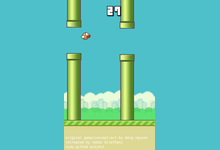
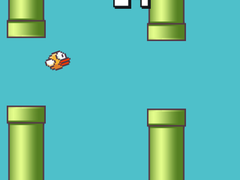
demo: new header and game tabs

diff --git a/demo/demo.css b/demo/demo.css
@@ -161,15 +161,37 @@ button:focus-visible, select:focus-visible, a:focus-visible { outline: 2px solid
 .seg button.on + button { border-left-color: var(--btn-on); }
 
 /* ---------------------------------------------------------------- lead */
-.lead { display: grid; grid-template-columns: minmax(330px, 430px) minmax(0, 1fr); gap: 44px; align-items: start; }
-@media (max-width: 1040px) { .lead { grid-template-columns: minmax(0, 1fr); gap: 26px; } }
-.lead-copy p { font-size: 16.5px; }
-.lead-copy .quiet { margin-top: 16px; }
+/* the project-page header: title, the link buttons, then the board itself */
+.lead { padding-top: 34px; }
+.pagetitle {
+  text-align: center; max-width: 30ch; margin: 0 auto 26px;
+  font-size: clamp(31px, 4.1vw, 52px); line-height: 1.1;
+}
+.hero-buttons { display: flex; justify-content: center; gap: 13px; flex-wrap: wrap; margin: 0 0 30px; }
+.hero-buttons .btn {
+  display: inline-flex; align-items: center; gap: 9px; padding: 11px 23px; border-radius: 10px;
+  font-weight: 600; font-size: 15.5px; color: #fff; border: 0; letter-spacing: -0.01em;
+  transition: transform .15s ease, box-shadow .15s ease, filter .15s ease;
+}
+.hero-buttons a.btn:hover { text-decoration: none; transform: translateY(-2px); filter: saturate(1.06); box-shadow: 0 8px 20px rgba(16, 26, 48, .22); }
+.hero-buttons .btn svg { flex: none; }
+.hero-buttons .tagx { font-style: normal; font-size: 11.5px; font-weight: 600; opacity: .78; letter-spacing: .01em; }
+.hero-buttons .soon { background: var(--muted); opacity: .62; cursor: default; }
+.btn-paper { background: #e0424f; }
+.btn-code { background: #2b3446; }
+.btn-model { background: #d68910; }
+.btn-jev { background: var(--accent); }
+.btn-list { background: #6d5ce7; }
+.lead-stage { max-width: 1080px; margin: 0 auto; }
 .stage-note { margin-top: 12px; max-width: 70ch; }
 
-.picker { display: flex; flex-wrap: wrap; gap: 6px; margin-bottom: 10px; }
-.picker button { border-radius: 999px; padding: 4px 12px; font-size: 13px; }
-.picker button.on { font-weight: 600; }
+.tabs { display: flex; flex-wrap: wrap; gap: 3px; margin-bottom: 14px; border-bottom: 1px solid var(--line); }
+.tabs button {
+  background: none; border: 0; border-bottom: 2px solid transparent; border-radius: 9px 9px 0 0;
+  padding: 9px 16px 8px; font-size: 14.5px; font-weight: 550; color: var(--muted); margin-bottom: -1px;
+}
+.tabs button:hover { background: var(--sunk); color: var(--fg); }
+.tabs button.on { color: var(--accent); border-bottom-color: var(--accent); font-weight: 660; background: none; }
 
 /* ---------------------------------------------------------------- tiles */
 .tile {
@@ -247,7 +269,7 @@ button:focus-visible, select:focus-visible, a:focus-visible { outline: 2px solid
 .tile.hero { padding: 14px; gap: 10px 16px; }
 @media (min-width: 720px) {
   .tile.hero {
-    display: grid; grid-template-columns: minmax(0, 1fr) 244px;
+    display: grid; grid-template-columns: minmax(0, 1fr) 272px;
     grid-template-areas: "board head" "board bars" "board conf" "board trace" "board foot";
     /* the trace takes whatever room the readout has left, so the column has no hole in it */
     grid-template-rows: auto auto auto 1fr auto;
@@ -260,7 +282,7 @@ button:focus-visible, select:focus-visible, a:focus-visible { outline: 2px solid
   .tile.hero .foot { grid-area: foot; align-content: start; margin-top: 0; }
 }
 /* --ar is the game's own width / height, set in fit(); a free board is exactly that shape, never letterboxed */
-.tile.hero { --cap-h: clamp(290px, 45vh, 440px); }
+.tile.hero { --cap-h: clamp(320px, 60vh, 600px); }
 .tile.hero .board, .duel .board { width: min(100%, calc(var(--cap-h) * var(--ar, 1))); margin-inline: auto; }
 .tile.hero .view, .duel .view { width: 100%; height: auto; aspect-ratio: var(--ar, 1); }
 .tile.hero .bars { font-size: 13.5px; row-gap: 6px; }
@@ -412,27 +434,6 @@ footer {
   .bars .row .bar i { transition: none; }
 }
 
-/* ---------------------------------------------------------------- lead: chips and the link block */
-.lead-copy .lead-line { font-size: 17.5px; line-height: 1.62; color: var(--fg-2); max-width: 46ch; }
-.chips { display: flex; flex-wrap: wrap; gap: 8px; list-style: none; padding: 0; margin: 20px 0 20px; }
-.chips li {
-  display: inline-flex; align-items: baseline; gap: 6px; padding: 6px 12px; border-radius: 999px;
-  background: var(--card); border: 1px solid var(--line); font-size: 13.5px; color: var(--muted);
-  box-shadow: var(--shadow);
-}
-.chips li b { font-size: 15px; font-weight: 680; color: var(--fg); letter-spacing: -0.01em; font-variant-numeric: tabular-nums; }
-.chips li:first-child b, .chips li:nth-child(3) b { color: var(--accent); }
-
-.links { display: flex; flex-wrap: wrap; gap: 7px; margin: 0 0 6px; }
-.links a, .links .soon {
-  display: inline-flex; align-items: baseline; gap: 7px; padding: 7px 12px; border-radius: 999px;
-  border: 1px solid var(--line); background: var(--card); color: var(--fg); font-size: 14px; font-weight: 600;
-  transition: transform 120ms ease, border-color 120ms ease, box-shadow 120ms ease;
-}
-.links a em, .links .soon em { font-style: normal; font-size: 12.5px; font-weight: 500; color: var(--muted); }
-.links a:hover { text-decoration: none; transform: translateY(-1px); border-color: var(--accent); box-shadow: var(--shadow-lift); }
-.links .soon { color: var(--muted); font-weight: 500; border-style: dashed; }
-
 /* ---------------------------------------------------------------- the play deck (name, score, then these) */
 .tile .deck { display: none; }
 .tile.hero .deck, .grid.solo .tile.active .deck {
@@ -467,7 +468,6 @@ footer {
 
 /* ---------------------------------------------------------------- polish */
 .tile:not(.hero):hover { border-color: color-mix(in srgb, var(--accent) 45%, var(--line)); }
-.picker button.on { background: var(--btn-on); color: var(--btn-on-fg); border-color: var(--btn-on); }
 .top { background: color-mix(in srgb, var(--bg) 82%, transparent); }
 h2 { position: relative; }
 h1 b, h2 b { color: var(--accent); }

diff --git a/demo/index.html b/demo/index.html
@@ -33,33 +33,21 @@
 <main id="top">
 
   <section class="lead wrap">
-    <div class="lead-copy">
-      <h1 data-i18n="lead.h1">An open 0.8B model plays ten browser games from raw pixels.</h1>
-      <p class="lead-line" data-i18n="lead.p">One frame goes in, one forward pass runs, one move comes out, 43 ms on a
-        single GPU. The model sees the picture, never the game's state, and it is never told which game it is playing.</p>
+    <h1 class="pagetitle" data-i18n="lead.h1">PlayJev: A Multimodal JEV-Like Model for Small Games</h1>
 
-      <ul class="chips">
-        <li><b>0.8B</b> <span data-i18n="chip.params">parameters</span></li>
-        <li><b>10</b> <span data-i18n="chip.games">games</span></li>
-        <li><b>43 ms</b> <span data-i18n="chip.move">per move</span></li>
-        <li><b>863k</b> <span data-i18n="chip.frames">training frames</span></li>
-        <li><b>0.53</b> <span data-i18n="chip.teacher">of the teacher</span></li>
-      </ul>
-
-      <div class="links">
-        <a data-link="repo" href="https://github.com/OmniJev/PlayJev"><span data-i18n="link.code">Code</span> <em>GitHub</em></a>
-        <span class="soon" data-soon="hf" data-soon-label="Hugging Face"><span data-i18n="link.weights">Weights</span> <em data-i18n="link.soon">soon</em></span>
-        <a data-link="openjev" href="https://github.com/OmniJev/openJev"><span data-i18n="link.server">System One server</span> <em>OpenJev</em></a>
-        <a data-link="awesome" href="https://omnijev.github.io/awesome-jev/"><span data-i18n="link.reading">Reading list</span> <em>Awesome-JEV</em></a>
-        <span class="soon" data-soon="paper" data-soon-label="arXiv"><span data-i18n="link.paper">Paper</span> <em data-i18n="link.soon">soon</em></span>
-      </div>
-      <p id="notice" class="notice"></p>
+    <div class="hero-buttons">
+      <span class="btn btn-paper soon" data-soon="paper"><svg viewBox="0 0 24 24" width="16" height="16" fill="none" stroke="currentColor" stroke-width="2" stroke-linecap="round" stroke-linejoin="round" aria-hidden="true"><path d="M14 3H7a2 2 0 0 0-2 2v14a2 2 0 0 0 2 2h10a2 2 0 0 0 2-2V8z"/><path d="M14 3v5h5M9 13h6M9 17h4"/></svg> <span data-i18n="btn.paper">Paper</span><i class="tagx" data-i18n="link.soon">soon</i></span>
+      <a class="btn btn-code" data-link="repo" href="https://github.com/OmniJev/PlayJev"><svg viewBox="0 0 16 16" width="17" height="17" aria-hidden="true"><path fill="currentColor" d="M8 0C3.58 0 0 3.58 0 8c0 3.54 2.29 6.53 5.47 7.59.4.07.55-.17.55-.38 0-.19-.01-.82-.01-1.49-2.01.37-2.53-.49-2.69-.94-.09-.23-.48-.94-.82-1.13-.28-.15-.68-.52-.01-.53.63-.01 1.08.58 1.23.82.72 1.21 1.87.87 2.33.66.07-.52.28-.87.51-1.07-1.78-.2-3.64-.89-3.64-3.95 0-.87.31-1.59.82-2.15-.08-.2-.36-1.02.08-2.12 0 0 .67-.21 2.2.82.64-.18 1.32-.27 2-.27.68 0 1.36.09 2 .27 1.53-1.04 2.2-.82 2.2-.82.44 1.1.16 1.92.08 2.12.51.56.82 1.27.82 2.15 0 3.07-1.87 3.75-3.65 3.95.29.25.54.73.54 1.48 0 1.07-.01 1.93-.01 2.2 0 .21.15.46.55.38A8.01 8.01 0 0 0 16 8c0-4.42-3.58-8-8-8Z"/></svg> <span data-i18n="btn.code">Code</span></a>
+      <span class="btn btn-model soon" data-soon="hf"><svg viewBox="0 0 24 24" width="16" height="16" fill="none" stroke="currentColor" stroke-width="2" stroke-linecap="round" stroke-linejoin="round" aria-hidden="true"><path d="M21 16V8a2 2 0 0 0-1-1.73l-7-4a2 2 0 0 0-2 0l-7 4A2 2 0 0 0 3 8v8a2 2 0 0 0 1 1.73l7 4a2 2 0 0 0 2 0l7-4A2 2 0 0 0 21 16z"/><path d="M3.3 7 12 12l8.7-5M12 22V12"/></svg> <span data-i18n="btn.model">Model</span><i class="tagx" data-i18n="link.soon">soon</i></span>
+      <a class="btn btn-jev" data-link="openjev" href="https://github.com/OmniJev/openJev"><svg viewBox="0 0 24 24" width="16" height="16" fill="none" stroke="currentColor" stroke-width="2" stroke-linecap="round" stroke-linejoin="round" aria-hidden="true"><rect x="2" y="3" width="20" height="8" rx="2"/><rect x="2" y="13" width="20" height="8" rx="2"/><path d="M6 7h.01M6 17h.01"/></svg> OpenJev</a>
+      <a class="btn btn-list" data-link="awesome" href="https://omnijev.github.io/awesome-jev/"><svg viewBox="0 0 24 24" width="16" height="16" fill="none" stroke="currentColor" stroke-width="2" stroke-linecap="round" stroke-linejoin="round" aria-hidden="true"><polygon points="12 2 15.1 8.3 22 9.3 17 14.1 18.2 21 12 17.8 5.8 21 7 14.1 2 9.3 8.9 8.3 12 2"/></svg> Awesome-JEV</a>
     </div>
 
     <div class="lead-stage">
-      <div id="picker" class="picker"></div>
+      <div id="picker" class="tabs" role="tablist"></div>
       <div id="stage" class="stage"></div>
     </div>
+    <p id="notice" class="notice"></p>
   </section>
 
   <section class="wrap" id="gallery">

diff --git a/demo/i18n.js b/demo/i18n.js
@@ -51,12 +51,8 @@ window.PJ_I18N = {
 
     'nav.gallery': '游戏墙', 'nav.results': '结果', 'nav.confidence': '置信度', 'nav.how': '原理',
 
-    'lead.h1': '一个开源 0.8B 模型，只看画面就能玩十款浏览器游戏。',
-    'lead.p': '一帧进去，一次前向，一个动作出来，单卡 43 毫秒。模型看到的只有画面，拿不到游戏内部状态，也从来不知道自己在玩哪一款。',
-    'chip.params': '参数', 'chip.games': '款游戏', 'chip.move': '每步耗时',
-    'chip.frames': '训练帧', 'chip.teacher': '相对老师',
-    'link.code': '代码', 'link.weights': '权重', 'link.server': 'System One 服务',
-    'link.reading': '论文清单', 'link.paper': '论文', 'link.soon': '即将发布',
+    'lead.h1': 'PlayJev：会玩小游戏的多模态 JEV 模型',
+    'btn.paper': '论文', 'btn.code': '代码', 'btn.model': '模型', 'link.soon': '即将发布',
 
     'gallery.h2': '游戏墙',
     'gallery.p': '十款游戏，一套权重，十套不同的可选动作。',

diff --git a/demo/demo.js b/demo/demo.js
@@ -955,7 +955,9 @@
     for (const node of document.querySelectorAll('[data-soon]')) {
       const url = D.links && D.links[node.dataset.soon]; if (!url) continue;
       const a = el('a'); a.href = url; a.innerHTML = node.innerHTML;
+      a.className = node.className.replace(/\bsoon\b/, '').trim();
       const tag = a.querySelector('em'); if (tag && node.dataset.soonLabel) tag.textContent = node.dataset.soonLabel;
+      const note = a.querySelector('.tagx'); if (note) note.remove();
       node.replaceWith(a);
     }
   }

diff --git a/scripts/readme_figs.py b/scripts/readme_figs.py
@@ -78,20 +78,27 @@ def board(cell=(384, 288), strip=38, gut=8, cols=5):
     return canvas.size
 
 
-def thumbs(size=(220, 150)):
-    """Small letterboxed shots for the roster table."""
+# where the crop sits on a frame taller than the thumbnail: 0 keeps the top, 1 the bottom
+THUMB_Y = {"tetris": .82, "flappy": .16, "pacman": .54, "snake": .5}
+# a tighter crop for the roster thumbnail alone, where the board is a small part of the page
+THUMB_CROP = {"2048": (.02, .27, .98, .89)}
+
+
+def thumbs(size=(240, 180)):
+    """Roster thumbnails, filled edge to edge. The frame is scaled until its short side covers the box and
+    the long side is cropped, so a tall game is zoomed into instead of sitting between two black bars."""
     out = OUT / "thumbs"
     out.mkdir(exist_ok=True)
     tw, th = size
     for gid, *_ in GAMES:
         src = Image.open(SHOTS / f"{gid}.png").convert("RGB")
-        l, t, r, b = CROP.get(gid, (0, 0, 1, 1))
+        l, t, r, b = THUMB_CROP.get(gid) or CROP.get(gid, (0, 0, 1, 1))
         src = src.crop((int(src.width * l), int(src.height * t), int(src.width * r), int(src.height * b)))
-        bg = edge_colour(src)
-        src.thumbnail(size, Image.LANCZOS)
-        tile = Image.new("RGB", (tw, th), bg)
-        tile.paste(src, ((tw - src.width) // 2, (th - src.height) // 2))
-        tile.save(out / f"{gid}.png", optimize=True)
+        k = max(tw / src.width, th / src.height)
+        src = src.resize((max(tw, round(src.width * k)), max(th, round(src.height * k))), Image.LANCZOS)
+        x = round((src.width - tw) * .5)
+        y = round((src.height - th) * THUMB_Y.get(gid, .5))
+        src.crop((x, y, x + tw, y + th)).save(out / f"{gid}.png", optimize=True)
     return len(GAMES), size
 
 

diff --git a/scripts/board_gif.py b/scripts/board_gif.py
@@ -226,6 +226,13 @@ def main(a):
           f"{1000 / dur:.1f} fps ({dur} ms), {used} colours, loop forever, {mb:.2f} MB")
     if mb >= 5:
         print("over the 5 MB budget: lower --colors, --frames or --width")
+    # The same animation as WebP, which GitHub renders in the README and which carries the full colour of the
+    # frames at about half the bytes. The GIF stays for the places that still want one.
+    if a.webp:
+        w = out.with_suffix(".webp")
+        boards[0].save(w, format="WEBP", save_all=True, append_images=boards[1:], duration=dur, loop=0,
+                       quality=a.quality, method=6, minimize_size=True)
+        print(f"{w}: same frames, quality {a.quality}, {w.stat().st_size / 1e6:.2f} MB")
 
 
 if __name__ == "__main__":
@@ -239,4 +246,7 @@ if __name__ == "__main__":
     p.add_argument("--out", default="board.gif")
     p.add_argument("--cache", default=str(CACHE), help="where the replayed tiles are kept")
     p.add_argument("--reuse", action="store_true", help="recompose from the cache, skip the browser")
+    p.add_argument("--webp", action="store_true", default=True, help="also write the animation as WebP")
+    p.add_argument("--no-webp", dest="webp", action="store_false")
+    p.add_argument("--quality", type=int, default=82, help="WebP quality")
     main(p.parse_args())

diff --git a/README.md b/README.md
@@ -1,5 +1,5 @@
 <p align="center">
-  <img src="docs/assets/board.gif" alt="Ten browser games, each one being played by PlayJev, with the score it had reached">
+  <img src="docs/assets/board.webp" alt="Ten browser games, each one being played by PlayJev, with the score it had reached">
 </p>
 
 <h1 align="center">PlayJev: A Multimodal JEV-Like Model for Small Games</h1>
